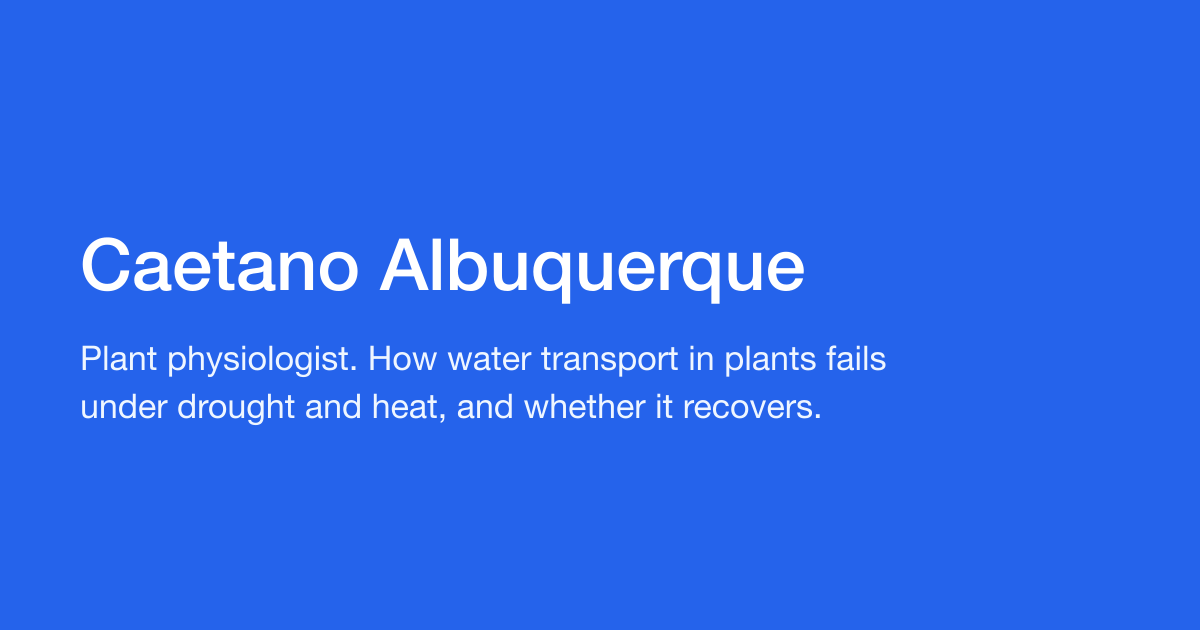
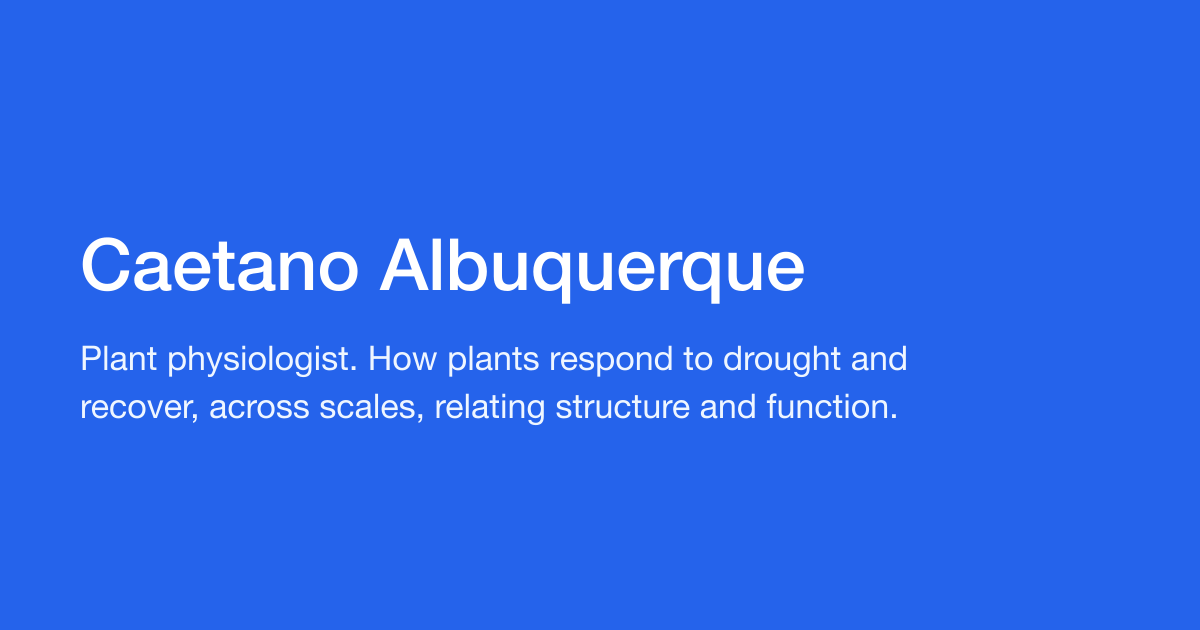
Simplify Research: structure and function across scales, shorter text
- One-line summary now reads: how plants respond to drought and recover
  from it, across scales, relating structure and function. Used in the
  site description, share card and People.
- Research text cut to three short paragraphs; aims list removed;
  shorter projects and methods; funding in one quiet list.
- Almond data figure moved to Research training on People.
- Shorter description of the Plant Physiology course research experience.

Changed region(s): [[0.37, 0.5429, 0.7708, 0.6032], [0.0617, 0.6333, 0.74, 0.6635]]

diff --git a/src/data/site.js b/src/data/site.js
@@ -13,7 +13,7 @@ export const person = {
 };
 
 export const siteDescription =
-  'Caetano Albuquerque, plant physiologist at CSU Monterey Bay: how water transport in plants fails under drought and heat, and whether it recovers.';
+  'Caetano Albuquerque, plant physiologist at CSU Monterey Bay: how plants respond to drought and recover from it, across scales, relating structure and function.';
 
 // status: 'published' | 'accepted' | 'review'
 // Student authors: * undergraduate mentee, ** co-mentored graduate student.
